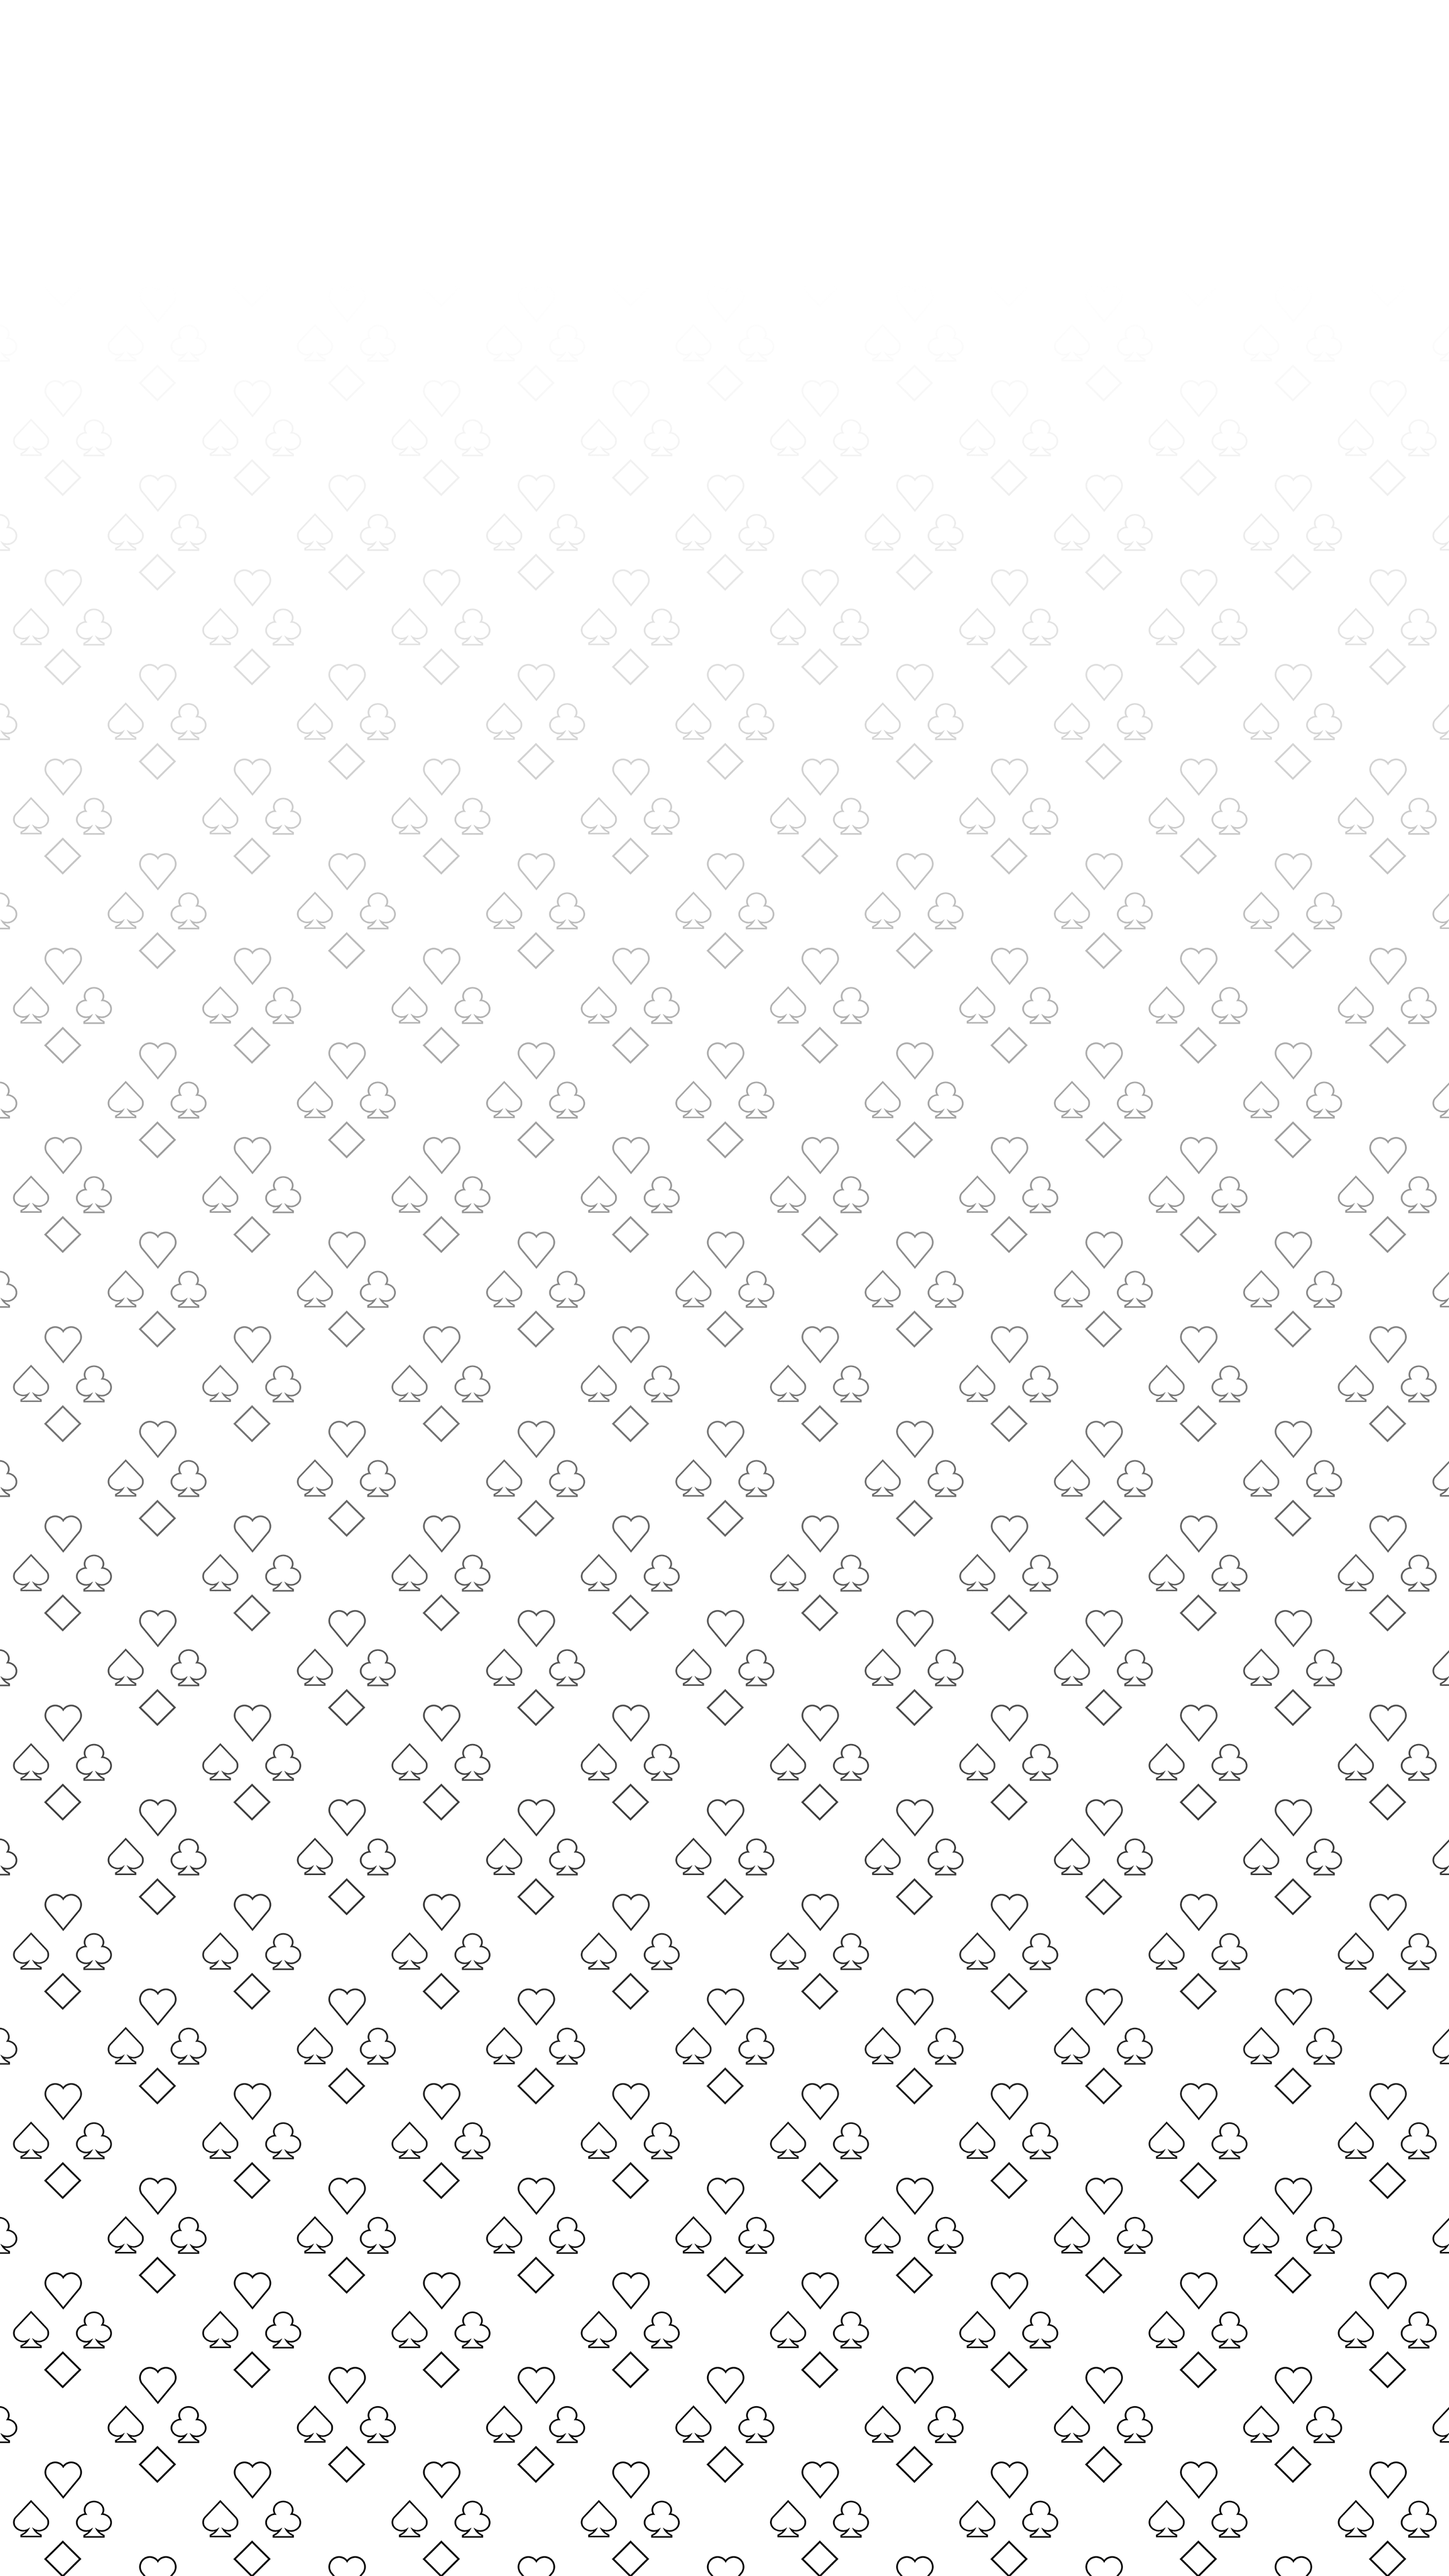
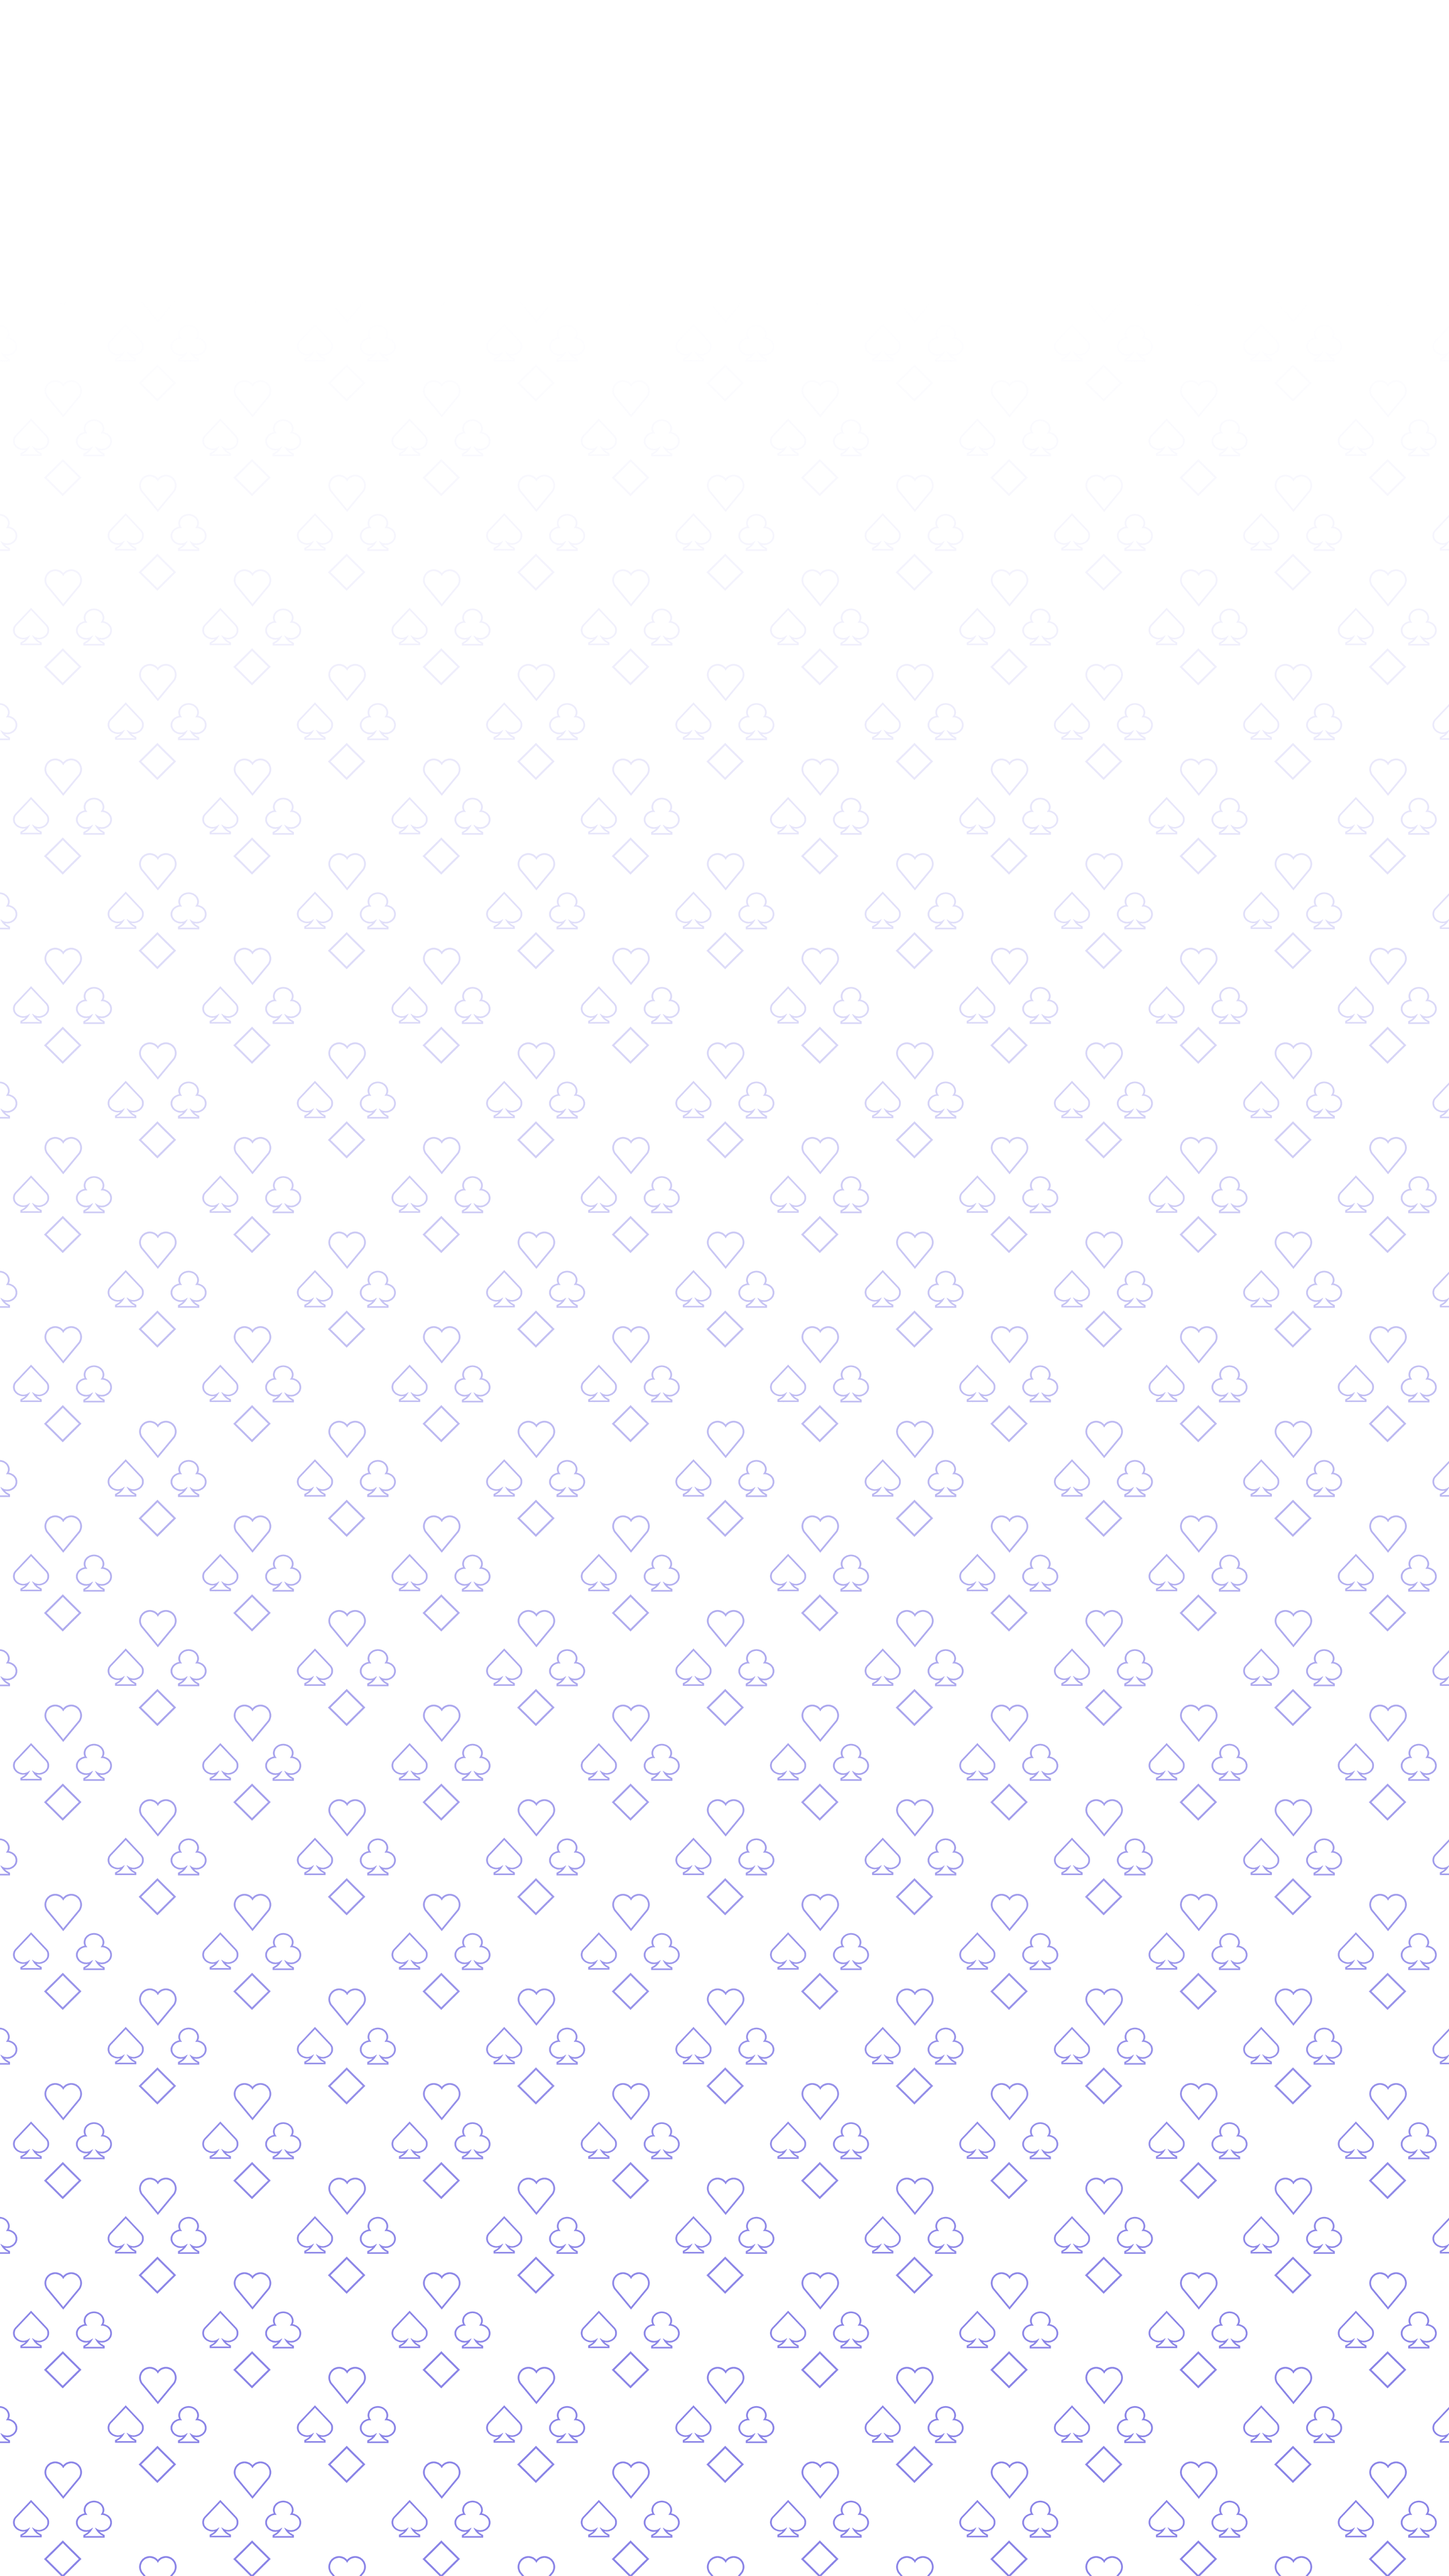
visual fix & freeze bug

diff --git a/lib/internal/gamelogic.dart b/lib/internal/gamelogic.dart
@@ -78,6 +78,7 @@ class Game {
     if (index == 100) {
       thisLobby.lobbyIndex += 1;
       if (thisLobby.lobbyIndex == thisLobby.lobbyPlayers.length) {
+        //TODO
         logs.writeLog('End of circle. Move to first in list');
         thisLobby.lobbyIndex = 0;
       }
@@ -103,11 +104,17 @@ class Game {
     if (index == 100) {
       if (!bidsEqual && waitForBidsEqual()) {
         //bidsEqual = waitForBidsEqual();
-        if (thisLobby.lapCount > 0) newState();
+        if (thisLobby.lapCount > 0) {
+          newState();
+          return 0;
+        }
       } else {
         if (thisLobby.lobbyIndex == thisLobby.firstPlayerIndex &&
             thisLobby.lapCount > 0 &&
-            waitForBidsEqual()) newState();
+            waitForBidsEqual()) {
+          newState();
+          return 0;
+        }
       }
     }
 
@@ -125,7 +132,7 @@ class Game {
         }
       }
     }*/
-
+    //TODO
     //bidsEqual = waitForBidsEqual();
     logs.writeLog('Bids: ${thisLobby.lobbyPlayers.map(
           (e) => [e.name, e.bid].join(': '),
@@ -228,6 +235,7 @@ class Game {
     if (waitForBidsEqual()) {
       //переходим в новое состояние
       thisLobby.lobbyState += 1;
+      //TODO
       logs.writeLog('NewState with lobbyState = ${thisLobby.lobbyState}');
       lobbyStorage.writeLobby(thisLobby);
     } else {}
@@ -284,6 +292,7 @@ class Game {
     callback!();
     // ignore: await_only_futures
     if (!folded) {
+      //TODO
       logs.writeLog('Call WinnerChooseWindow');
       await transitionDialog(
         barrierDismissible: false,

diff --git a/lib/ui/ui_widgets.dart b/lib/ui/ui_widgets.dart
@@ -227,9 +227,8 @@ class PatternContainer extends StatelessWidget {
       alignment: Alignment.center,
       decoration: BoxDecoration(
         image: DecorationImage(
-          opacity: 0.3 * opacity,
-          colorFilter:
-              ColorFilter.mode(thisTheme.primaryColor, BlendMode.srcATop),
+          opacity: 0.4 * opacity,
+          //colorFilter: ColorFilter.mode(thisTheme.primaryColor, BlendMode.srcATop),
           image: const AssetImage('assets/pattern.png'),
           fit: BoxFit.cover,
         ),

diff --git a/lib/data/themes.dart b/lib/data/themes.dart
@@ -49,8 +49,8 @@ Themes light = Themes(
 
 Themes dark = Themes(
   'dark',
-  const Color.fromARGB(255, 29, 29, 34), // bgrColor
-  const Color.fromARGB(255, 40, 40, 50), // bankColor
+  const Color.fromARGB(254, 29, 29, 34), // bgrColor
+  const Color.fromARGB(255, 70, 70, 80), // bankColor
   const Color.fromARGB(255, 36, 35, 45), // playerColor
   const Color.fromARGB(255, 70, 78, 109), //additionButtonColor
   MaterialColor(0xff8882e6, colorLight), // primaryColor
